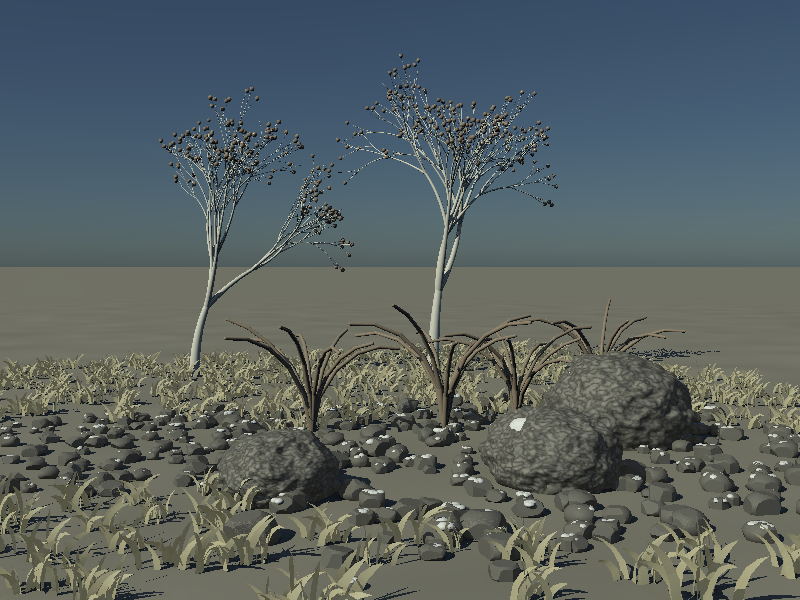
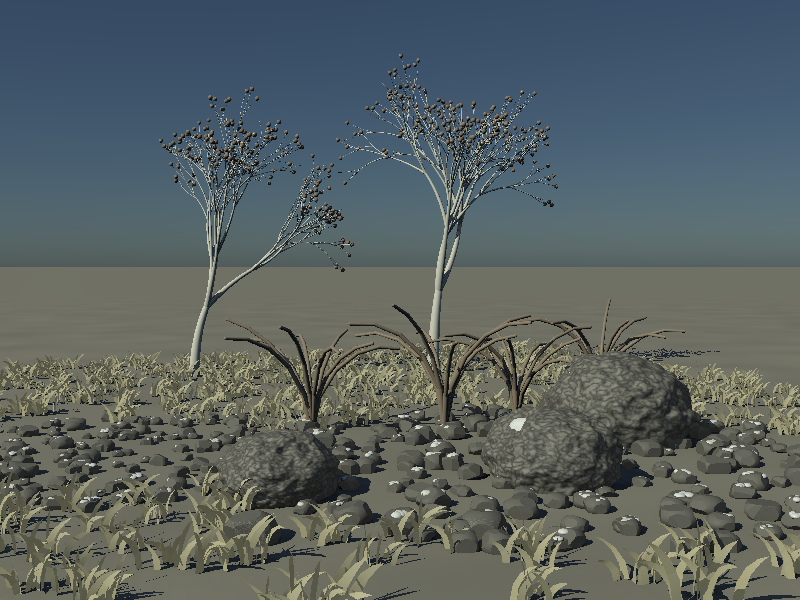
Scree is the shape of the slope it fell down
`Scree` takes an outline now, as `Grass` does, and its body is a field.
The hand-written grid, the containment test and the blocking into
eights all go with it.

Stone runs out where a slope runs out.  It does not stop along a line at
right angles to another line, which is what a square patch made it do
and the reason a heap never sat against anything.

One thing this needed that grass did not.  A cobble is lifted by
`stone * 0.16` so it sits into the ground rather than on it, and how far
that is depends on how big *that* stone came out.  A field stands its
copies on the plane and knows nothing about what they are, so the lift
moved off the placement and into a per-copy primitive that sizes the
stone and lifts it before the field ever sees it.

In the stony bank the scree and the sward now share their figures: the
holes cut in the grass are the same two shapes, drawn a little smaller,
so the stones run in under the grass at the edge rather than leaving a
bare ring between them.  They are written twice because a hole has to be
a subpath of the outline it is a hole in, and one named path cannot be
handed to another.

The stones are keyed off the copy number rather than off a grid position
now, so they are differently sized and differently placed: the picture
is new rather than the old one in a new outline.

Changed region(s): [[0.0, 0.66, 1.0, 0.99], [0.4375, 0.93, 0.4688, 0.99], [0.4062, 0.9, 0.4375, 0.93]]

diff --git a/Tests/TestShippedLibraries.cs b/Tests/TestShippedLibraries.cs
@@ -758,7 +758,7 @@ public class TestShippedLibraries
     private string Quarry(string stone, string season)
     {
         string scene = Path.Combine(_directory, "scene.igl");
-        string size = stone == "Scree" ? "1.6" : "1";
+        string size = stone == "Scree" ? "Heap" : "1";
         string call = season is null
             ? $"{stone}({size})"
             : $"{stone}({size}, '{season}', 3)";
@@ -770,6 +770,7 @@ public class TestShippedLibraries
             point light { location [-4, 6, -5] }
             background [0.5, 0.6, 0.8]
             plane { material { pigment [0.3, 0.3, 0.3] } }
+            {{(stone == "Scree" ? Heap : "")}}
             object {{call}}
             """);
 
@@ -777,12 +778,18 @@ public class TestShippedLibraries
     }
 
     /// <summary>
+    /// The outline <c>Scree</c> is handed, which the single stones do not need.
+    /// </summary>
+    private const string Heap =
+        "Heap = path { move to -0.8, -0.8  line to 0.8, -0.8  line to 0.8, 0.8  line to -0.8, 0.8  close }";
+
+    /// <summary>
     /// Makes one stone of one variant in one season and hands back the picture.
     /// </summary>
     private Canvas StoneIn(string stone, string season, int variant)
     {
         string scene = Path.Combine(_directory, "scene.igl");
-        string size = stone == "Scree" ? "1.6" : "1";
+        string size = stone == "Scree" ? "Heap" : "1";
 
         File.WriteAllText(scene, $$"""
             import 'rocks' { {{stone}} }
@@ -791,6 +798,7 @@ public class TestShippedLibraries
             point light { location [-4, 6, -5] }
             background [0.5, 0.6, 0.8]
             plane { material { pigment [0.3, 0.3, 0.3] } }
+            {{(stone == "Scree" ? Heap : "")}}
             object {{stone}}({{size}}, '{{season}}', {{variant}})
             """);
 

diff --git a/docs/libraries.md b/docs/libraries.md
@@ -266,8 +266,10 @@ seen from across a field does not need what grass seen from a foot away needs.
 ```
 import 'rocks' { Boulder, Scree }
 
+Slope = path { move to -3, 1  line to 3, 1  line to 3, 7  line to -3, 7  close }
+
 object Boulder(1.2)
-object Scree(6, 'winter')        { translate Z 4 }
+object Scree(Slope, 'winter')
 ```
 
 The other two libraries grow things.  This one is what they grow among, and it is the last thing a
@@ -277,7 +279,7 @@ piece of ground needs before it stops looking swept.
 | --- | --- |
 | `Boulder` | One big weathered stone, lumpy all over.  The expensive one — see below. |
 | `Cobble` | A smaller stone with flat faces, knocked off something bigger.  Cheap. |
-| `Scree` | An area of cobbles, thrown down thickly.  The first number is how far across. |
+| `Scree` | An area of cobbles, thrown down thickly, filling any outline you draw. |
 
 **The season does one thing here, and it is winter.**  A rock is not deciduous, so three seasons of
 the four are the same stone; in winter snow lies on top of it, as it gathers on the fir and the
@@ -298,6 +300,11 @@ rather than weathered stone, and measured about four times a sphere rather than 
 
 That is the same division `undergrowth` makes between `Tuft` and `Grass`: the careful expensive one
 for the few you look at, the cheap one for the many you do not.  A picture wants some of each.
+
+**`Scree` fills an outline, exactly as `Grass` does**, and for the same reason: stone runs out where a
+slope runs out, not along a line at right angles to another line.  Draw the outline for a heap and
+draw a hole in the grass to match, a little smaller, and the stones run in under the grass at the
+edge instead of leaving a bare ring between them.
 
 ##### What makes a shape into stone
 
